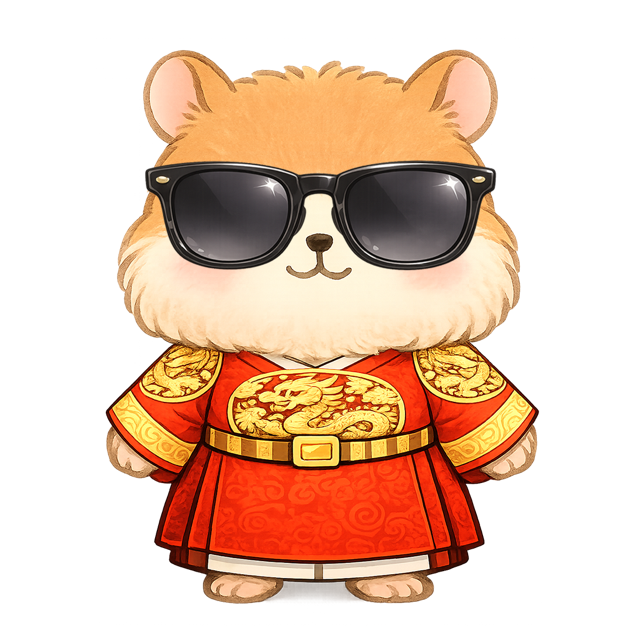
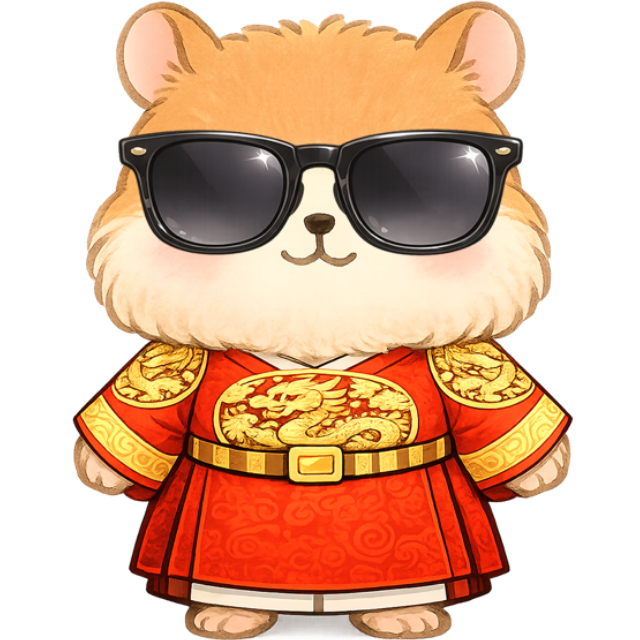
[캐릭터 PNG 추가] -PNG추가 및 크기 조절

diff --git a/frontend/src/app/(main)/challenge-battle/result2/page.js b/frontend/src/app/(main)/challenge-battle/result2/page.js
@@ -80,19 +80,22 @@ function getMissionStatusText(mission, myName) {
 
 
 function getMissionAccentColor(mission, myName) {
-    if (mission.status === "DRAW") {
-        return "var(--text-sub)";
-    }
-
     if (mission.status === "WON" && mission.winner_name === myName) {
         return "var(--primary)";
     }
 
-    if (mission.status === "WON") {
-        return "#d97706";
+    return "var(--text-guide)";
+}
+
+
+function getMissionCardStyle(mission, myName) {
+    if (mission.status === "WON" && mission.winner_name === myName) {
+        return {
+            borderColor: "var(--primary)",
+        };
     }
 
-    return "var(--text-guide)";
+    return {};
 }
 
 
@@ -366,18 +369,22 @@ function BattleResultPageContent() {
                     <h3 style={styles.sectionSubTitle}>미션 결과</h3>
                     <div style={styles.missionList}>
                         {resultData.missions.map((mission) => (
-                            <div key={mission.id} style={styles.missionRow}>
+                            <div
+                                key={mission.id}
+                                style={{
+                                    ...styles.missionRow,
+                                    ...getMissionCardStyle(mission, myName),
+                                }}
+                            >
                                 <span style={styles.missionTitle}>{mission.title}</span>
-                                <div style={styles.missionRight}>
-                                    <span
-                                        style={{
-                                            ...styles.missionWinnerName,
-                                            color: getMissionAccentColor(mission, myName),
-                                        }}
-                                    >
-                                        {getMissionStatusText(mission, myName)}
-                                    </span>
-                                </div>
+                                <span
+                                    style={{
+                                        ...styles.missionWinnerName,
+                                        color: getMissionAccentColor(mission, myName),
+                                    }}
+                                >
+                                    {getMissionStatusText(mission, myName)}
+                                </span>
                             </div>
                         ))}
                     </div>
@@ -817,30 +824,27 @@ const styles = {
     },
     missionRow: {
         display: "flex",
-        alignItems: "center",
-        justifyContent: "space-between",
+        flexDirection: "column",
+        alignItems: "flex-start",
+        gap: "0.45rem",
         background: "white",
-        border: "1px solid #e2e8f0",
+        border: "1.6px solid #e2e8f0",
         borderRadius: "10px",
-        padding: "0.9rem 1rem",
-    },
-    missionRight: {
-        display: "flex",
-        alignItems: "center",
-        gap: "0.5rem",
-        flexShrink: 0,
+        padding: "0.95rem 1rem",
     },
     missionTitle: {
-        flex: 1,
+        width: "100%",
         fontSize: "0.9rem",
         fontWeight: "600",
         color: "var(--text-main)",
+        lineHeight: 1.45,
+        wordBreak: "keep-all",
     },
     missionWinnerName: {
-        fontSize: "0.8rem",
+        fontSize: "0.83rem",
         fontWeight: "600",
-        textAlign: "right",
-        flexShrink: 0,
+        lineHeight: 1.4,
+        wordBreak: "keep-all",
     },
     detailRow: {
         display: "flex",

diff --git a/frontend/src/lib/characterPreview.js b/frontend/src/lib/characterPreview.js
@@ -3,17 +3,28 @@ const CHARACTER_RENDER_KEYS = new Set([
     'body',
     'gray_hoodie',
     'gray_hoodie_black_glasses',
+    'gray_hoodie_moustache',
     'gray_hoodie_sunglasses',
     'king',
     'king_black_glasses',
+    'king_moustache',
     'king_sunglasses',
+    'moustache',
     'school_uniform',
     'school_uniform_black_glasses',
+    'school_uniform_moustache',
     'school_uniform_sunglasses',
     'Sherlock',
+    'Sherlock_black_glasses',
+    'Sherlock_moustache',
+    'Sherlock_sunglasses',
     'space_suit',
+    'space_suit_black_glasses',
+    'space_suit_moustache',
+    'space_suit_sunglasses',
     'summer',
     'summer_black_glasses',
+    'summer_moustache',
     'summer_sunglasses',
     'sunglasses',
 ]);
